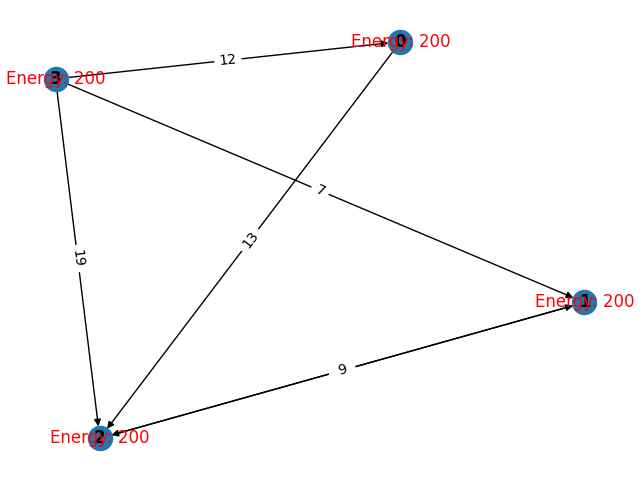
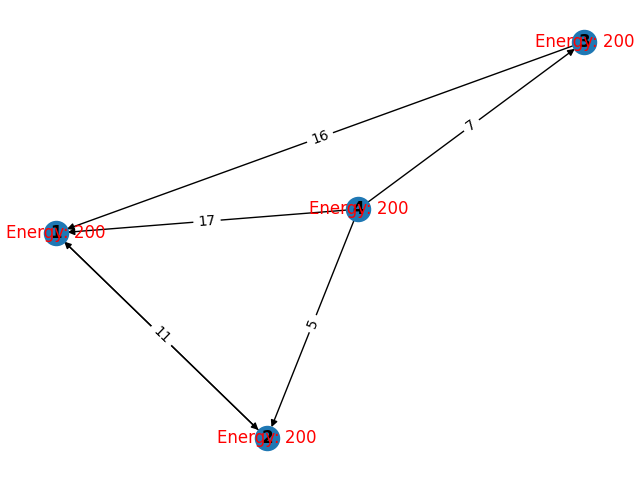
working yaya!

diff --git a/b.py b/b.py
@@ -2,14 +2,16 @@ import random
 import networkx as nx
 import matplotlib.pyplot as plt
 
-# Step 2: Create a graph with random edges
+# Step 1: Ask the user for the number of nodes
 num_nodes = int(input("Enter the number of nodes: "))
-G = nx.Graph()
+
+# Step 2: Create a graph with random edges
+G = nx.DiGraph()
 for i in range(1, num_nodes+1):
     G.add_node(i, energy=200)
 for i in range(1, num_nodes+1):
-    for j in range(i+1, num_nodes+1):
-        if random.random() < 0.5:
+    for j in range(1, num_nodes+1):
+        if i != j and random.random() < 0.5:
             weight = random.randint(5, 20)
             G.add_edge(i, j, weight=weight)
 
@@ -33,27 +35,22 @@ total_energy_before = sum(node_energy.values())
 print(f"Total energy of nodes before sending packets: {total_energy_before}")
 
 # Send packets between src and dest
-print(G)
-
-path = nx.shortest_path(G, src_node, dest_node, weight="weight", method="dijkstra")
-
 for i in range(num_packets):
+    path = nx.shortest_path(G, src_node, dest_node, weight="weight", method="dijkstra")
     for j in range(len(path)-1):
         u, v = path[j], path[j+1]
         if G.nodes[u]['energy'] - G[u][v]['weight'] < 0:
-            # Avoid the node with zero energy by setting the weights of all connected edges to infinity
-            for x in G.neighbors(u):
+            # Avoid the node with zero energy by setting the weights of all outgoing edges to infinity
+            for x in G.successors(u):
                 G[u][x]['weight'] = 100000000
             print(f"Node {u} has run out of energy and will be avoided.")
             break
         else:
-            print(u , " : " , v , " : " , G[u][v]['weight'])
+            print(u , " -> " , v , " : " , G[u][v]['weight'])
             G.nodes[u]['energy'] -= G[u][v]['weight']
     else:
         # Packet reached destination successfully
         print(f"Packet {i+1} reached the destination through path {path}")
-        # Find a new path for the next packet
-        path = nx.shortest_path(G, src_node, dest_node, weight="weight", method="dijkstra")
         continue
 
     # Packet encountered a node with zero energy and did not reach destination
@@ -71,6 +68,3 @@ nx.draw_networkx_labels(G, pos, labels={n: f"Energy: {node_energy[n]}" for n in 
 
 edge_labels = nx.get_edge_attributes(G, 'weight')
 nx.draw_networkx_edge_labels(G, pos, edge_labels=edge_labels)
-plt.show()
-
-
